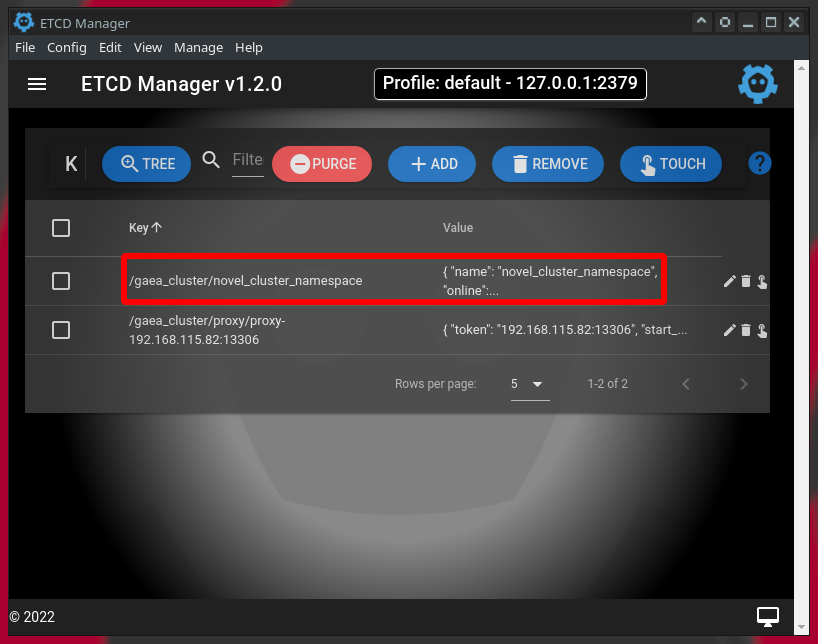
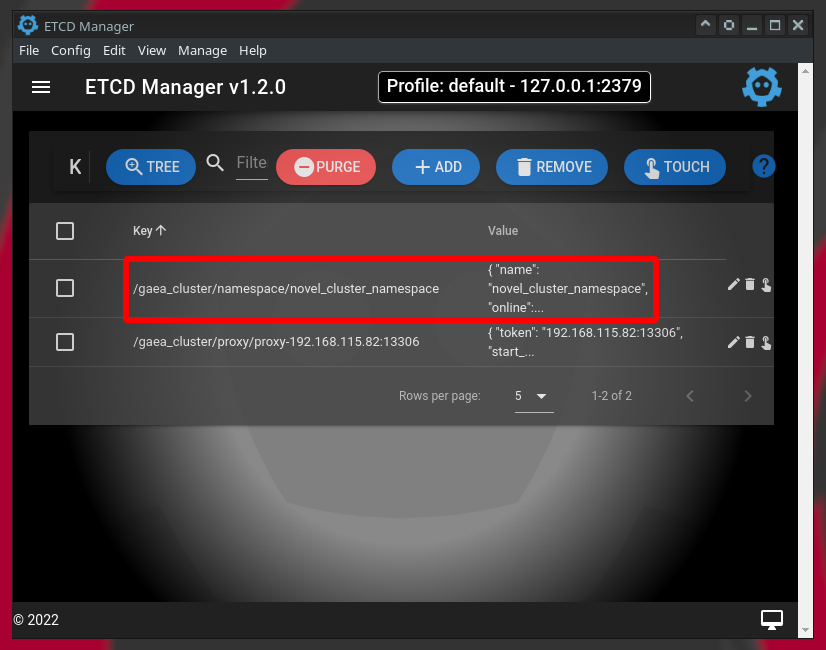
doc: correct etcd ns path in doc

diff --git a/models/connection.t.md b/models/connection.t.md
@@ -212,18 +212,81 @@ coordinator_addr=http://127.0.0.1:2379
 
 在 Etcd 服務器內寫入以下內容
 
-- key 為 /gaea_cluster/novel_cluster_namespace
+- key 為 /gaea_cluster/namespace/novel_cluster_namespace
 - value 為 命名空間 Json 格式設定值
 
 <img src="./assets/image-20220124113553383.png" alt="image-20220124113553383" style="zoom:80%;" /> 
 
 ## 4 啟動數據庫中間件 Gaea
 
-登入 Gaea 的指令為
+> 啟動的方式有分兩種
+>
+> 1. 在終端機去下指令啟動 Gaea
+> 2. 使用 IDE 工具啟動 Gaea
 
-mysql -h 127.0.0.1 -P 13306 --protocol=TCP -u xiaomi -p
+### 1 建立執行文檔的目錄
 
-## 5 測試數據庫中間件 Gaea 的讀寫
+```bash
+# 建立執行檔集中目錄
+$ mkdir -p Gaea/bin/
+```
+
+### 2 在終端機去下指令啟動 Gaea
+
+先在終端機進行編譯，後執行
+
+```bash
+# 設定 GoRoot 和 GoPath
+# GOROOT 位於 /usr/local/go #gosetup
+# GOPATH 位於 /home/panhong/go #gosetup
+
+# 到 Gaea 的專案目錄
+$ cd /home/panhong/go/src/github.com/panhongrainbow/Gaea
+
+# 對 Gaea 主程式進行編譯
+$ /usr/local/go/bin/go build -o /home/panhong/go/src/github.com/panhongrainbow/Gaea/bin/gaea github.com/XiaoMi/Gaea/cmd/gaea #gosetup
+
+# 執行數據庫中間件 Gaea
+$ /home/panhong/go/src/github.com/panhongrainbow/Gaea/bin/gaea
+```
+
+執行畫面如下
+
+<img src="./assets/image-20220124142003588.png" alt="image-20220124142003588" style="zoom:110%;" />
+
+### 3 使用 IDE 工具啟動 Gaea
+
+在 IDE 工具內，填入以下內容
+
+| 項目 | 配置       | 參數                                            |
+| ---- | ---------- | ----------------------------------------------- |
+| １   | 名稱       | gaea                                            |
+| ２   | 運行種類   | 軟體包                                          |
+| ３   | 軟體包路徑 | github.com/XiaoMi/Gaea/cmd/gaea                 |
+| ４   | 輸出目錄   | /home/panhong/go/src/github.com/xiaomi/Gaea/bin |
+| ５   | 建構後運行 | 打勾                                            |
+| ６   | 工作目錄   | /home/panhong/go/src/github.com/xiaomi/Gaea     |
+
+配置如下圖
+
+<img src="./assets/image-20220124143836664.png" alt="image-20220124143836664"  /> 
+
+運行狀況如下圖
+
+<img src="./assets/image-20220124145641452.png" alt="image-20220124145641452" style="zoom: 100%;" /> 
+
+## 5 登入數據庫中間件 Gaea
+
+數據庫中間件 Gaea 啟動後，直接啟動中間件
+
+```bash
+# 登入 Gaea 指令如下
+$ mysql -h 127.0.0.1 -P 13306 --protocol=TCP -u xiaomi -p
+```
+
+<img src="./assets/image-20220124154131750.png" alt="image-20220124154131750" style="zoom:60%;" /> 
+
+## 6 測試數據庫中間件 Gaea 的讀寫
 
 目前測試的資料如下
 
@@ -234,12 +297,6 @@ MySQL [novel]> INSERT INTO novel.Book (BookID, Isbn, Title, Author, Publish, Cat
 
 MySQL [novel]> INSERT INTO novel.Book (BookID, Isbn, Title, Author, Publish, Category) VALUES(3, 9789575709518, 'Journey To The West', 'Wu Cheng en', 1592, 'Gods And Demon
 s Fiction'); 
-
-
-
-
-
-
 
 
 

diff --git a/models/connection.md b/models/connection.md
@@ -212,18 +212,81 @@ coordinator_addr=http://127.0.0.1:2379
 
 在 Etcd 服务器内写入以下内容
 
-- key 为 /gaea_cluster/novel_cluster_namespace
+- key 为 /gaea_cluster/namespace/novel_cluster_namespace
 - value 为 命名空间 Json 格式设定值
 
 <img src="./assets/image-20220124113553383.png" alt="image-20220124113553383" style="zoom:80%;" /> 
 
 ## 4 启动数据库中间件 Gaea
 
-登入 Gaea 的指令为
+> 启动的方式有分两种
+>
+> 1. 在终端机去下指令启动 Gaea
+> 2. 使用 IDE 工具启动 Gaea
 
-mysql -h 127.0.0.1 -P 13306 --protocol=TCP -u xiaomi -p
+### 1 建立执行文档的目录
 
-## 5 测试数据库中间件 Gaea 的读写
+```bash
+# 建立执行档集中目录
+$ mkdir -p Gaea/bin/
+```
+
+### 2 在终端机去下指令启动 Gaea
+
+先在终端机进行编译，后执行
+
+```bash
+# 设定 GoRoot 和 GoPath
+# GOROOT 位于 /usr/local/go #gosetup
+# GOPATH 位于 /home/panhong/go #gosetup
+
+# 到 Gaea 的专案目录
+$ cd /home/panhong/go/src/github.com/panhongrainbow/Gaea
+
+# 对 Gaea 主程式进行编译
+$ /usr/local/go/bin/go build -o /home/panhong/go/src/github.com/panhongrainbow/Gaea/bin/gaea github.com/XiaoMi/Gaea/cmd/gaea #gosetup
+
+# 执行数据库中间件 Gaea
+$ /home/panhong/go/src/github.com/panhongrainbow/Gaea/bin/gaea
+```
+
+执行画面如下
+
+<img src="./assets/image-20220124142003588.png" alt="image-20220124142003588" style="zoom:110%;" />
+
+### 3 使用 IDE 工具启动 Gaea
+
+在 IDE 工具内，填入以下内容
+
+| 项目 | 配置       | 参数                                            |
+| ---- | ---------- | ----------------------------------------------- |
+| １   | 名称       | gaea                                            |
+| ２   | 运行种类   | 软体包                                          |
+| ３   | 软体包路径 | github.com/XiaoMi/Gaea/cmd/gaea                 |
+| ４   | 输出目录   | /home/panhong/go/src/github.com/xiaomi/Gaea/bin |
+| ５   | 建构后运行 | 打勾                                            |
+| ６   | 工作目录   | /home/panhong/go/src/github.com/xiaomi/Gaea     |
+
+配置如下图
+
+<img src="./assets/image-20220124143836664.png" alt="image-20220124143836664"  /> 
+
+运行状况如下图
+
+<img src="./assets/image-20220124145641452.png" alt="image-20220124145641452" style="zoom: 100%;" /> 
+
+## 5 登入数据库中间件 Gaea
+
+数据库中间件 Gaea 启动后，直接启动中间件
+
+```bash
+# 登入 Gaea 指令如下
+$ mysql -h 127.0.0.1 -P 13306 --protocol=TCP -u xiaomi -p
+```
+
+<img src="/home/panhong/.config/Typora/typora-user-images/image-20220124154131750.png" alt="image-20220124154131750" style="zoom:60%;" /> 
+
+## 6 测试数据库中间件 Gaea 的读写
 
 目前测试的资料如下
 
@@ -245,9 +308,7 @@ s Fiction');
 
 
 
-
-
-
+![image-20220124155312270](/home/panhong/.config/Typora/typora-user-images/image-20220124155312270.png)
 
 
 
